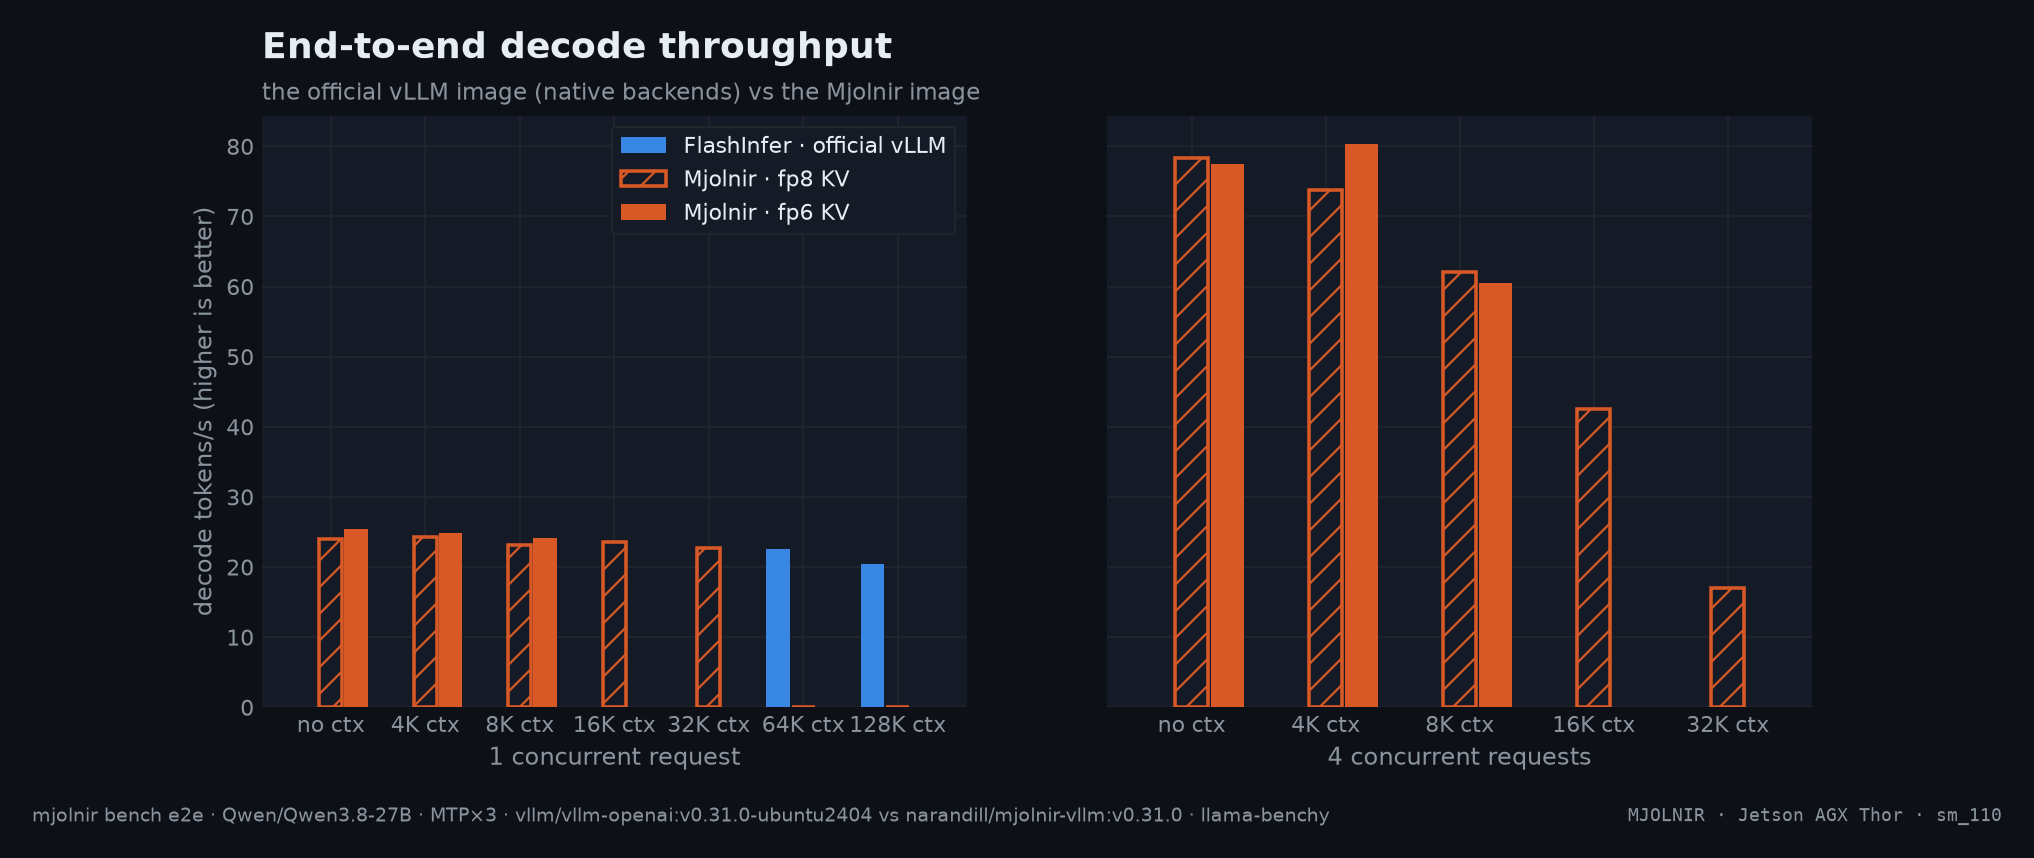
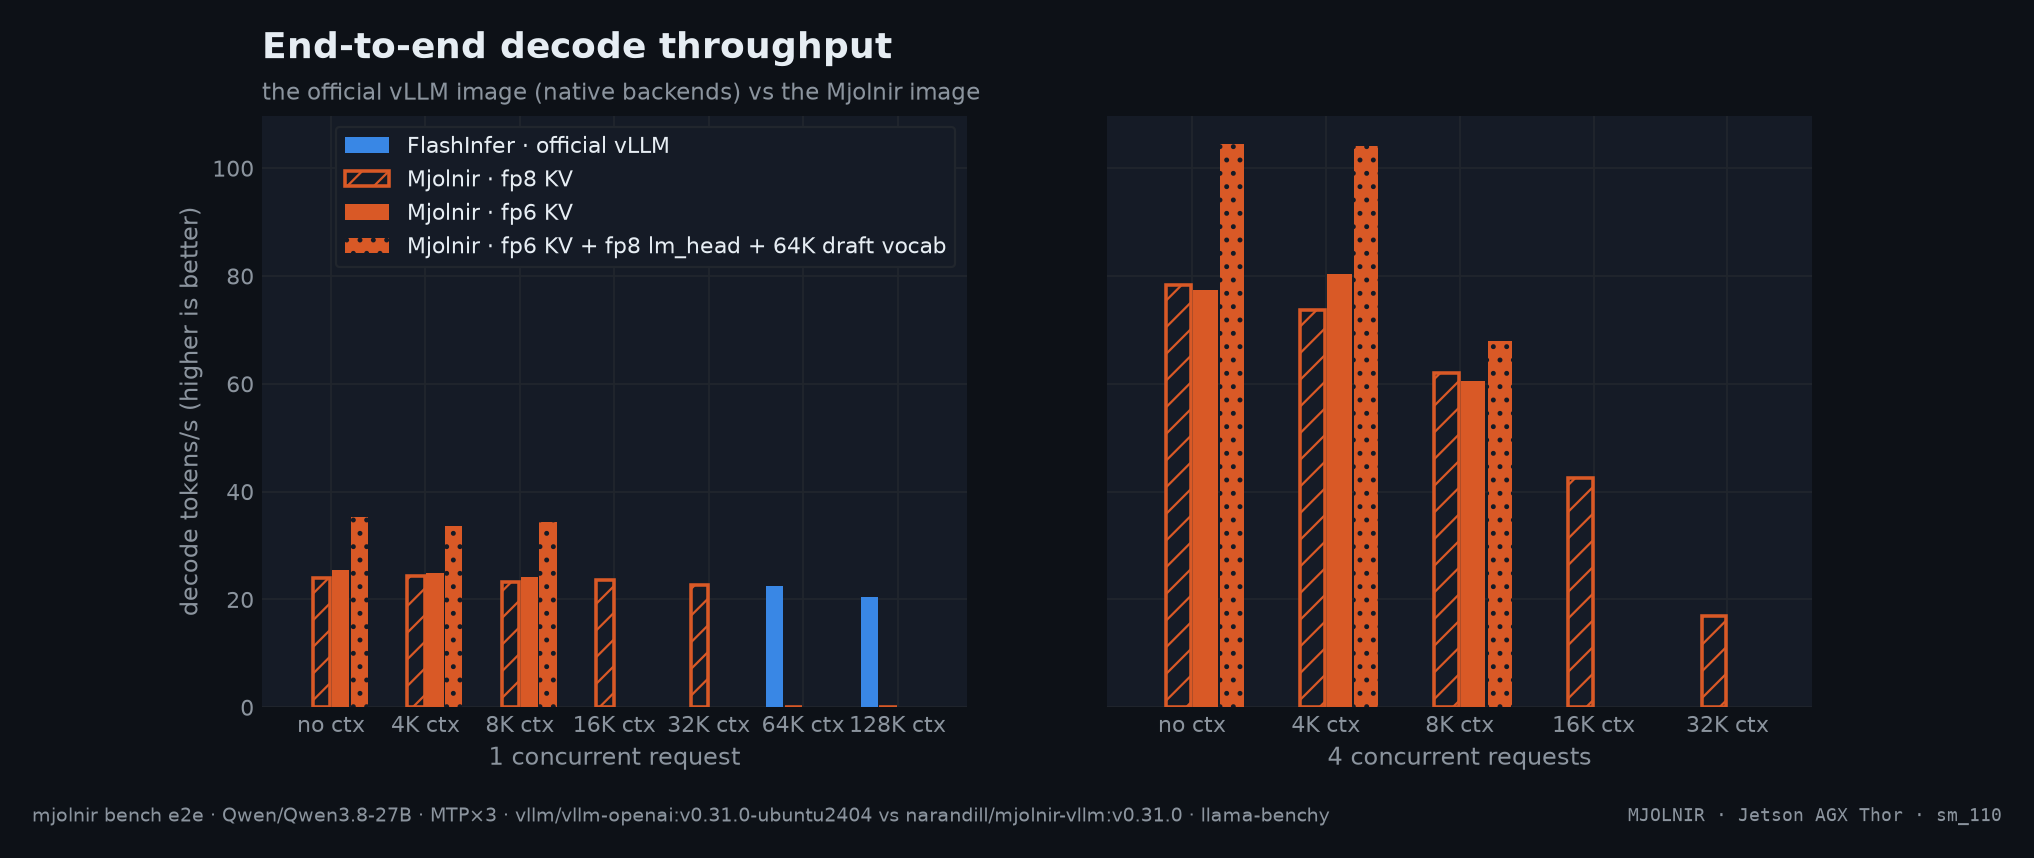
Measure NVFP4_MJOLNIR_E2M3_LMH8_VT64K everywhere: default leg of verify spec/kv-cache-size/profile, bench ab/e2e, lmh8 smoke

diff --git a/src/mjolnir-cli/mjolnir_cli/charts.py b/src/mjolnir-cli/mjolnir_cli/charts.py
@@ -637,8 +637,9 @@ E2E_SERIES = (
     ("NVFP4_FA2", "FlashAttention 2 · official vLLM"),
     ("NVFP4_MJOLNIR", "Mjolnir · fp8 KV"),
     ("NVFP4_MJOLNIR_E2M3", "Mjolnir · fp6 KV"),
+    ("NVFP4_MJOLNIR_E2M3_LMH8_VT64K", "Mjolnir · fp6 KV + fp8 lm_head + 64K draft vocab"),
 )
-MJOLNIR_E2E_CONFIGS = ("NVFP4_MJOLNIR", "NVFP4_MJOLNIR_E2M3")
+MJOLNIR_E2E_CONFIGS = ("NVFP4_MJOLNIR", "NVFP4_MJOLNIR_E2M3", "NVFP4_MJOLNIR_E2M3_LMH8_VT64K")
 
 
 def e2e_rows(layout: RepoLayout) -> dict[str, dict]:
@@ -695,9 +696,9 @@ def _e2e_chart(layout: RepoLayout, mode: Mode, metric: str, ylabel: str, ttl: st
                 vals,
                 width=w * 0.92,
                 color=mode.panel if hollow else theme.color(mode, cfg),
-                edgecolor=theme.color(mode, cfg),
+                edgecolor=theme.color(mode, cfg) if hollow or not theme.hatch(cfg) else mode.panel,
                 linewidth=1.6 if hollow else 0,
-                hatch="//" if hollow else None,
+                hatch=theme.hatch(cfg),
                 zorder=3,
                 label=lbl if ax is axes[0] else None,
             )
@@ -1059,6 +1060,8 @@ def render_infographic(layout: RepoLayout) -> Path | None:
 def _kvcache_series(r: dict) -> str:
     if r.get("side") == "official":
         return "NVFP4"
+    if r.get("config") in theme.SERIES_HATCH:
+        return r["config"]
     return "mjolnir" if str(r.get("kv_dtype", "")).startswith("fp6") else "mjolnir-fp8"
 
 
@@ -1085,9 +1088,9 @@ def chart_kvcache(data: dict, mode: Mode):
             r["kv_tokens"] / 1e6,
             height=0.6,
             color=mode.panel if hollow else c,
-            edgecolor=c,
-            linewidth=2,
-            hatch="//" if hollow else None,
+            edgecolor=c if hollow or not theme.hatch(sid) else mode.panel,
+            linewidth=2 if hollow else 0,
+            hatch=theme.hatch(sid),
             zorder=3,
         )
         ax0.text(
@@ -1154,14 +1157,19 @@ def chart_spec(data: dict, mode: Mode):
             pts = sorted((r["k"], r["decode_tps"]) for r in rows if r["config"] == cfg and r["concurrency"] == conc)
             if not pts:
                 continue
-            ax.plot([k for k, _ in pts], [v for _, v in pts], label=spec_label(cfg), **theme.line_kw(mode, cfg))
+            ax.plot(
+                [k for k, _ in pts],
+                [v for _, v in pts],
+                label=spec_label(cfg).replace(" + ", "\n+ ", 1),
+                **theme.line_kw(mode, cfg),
+            )
             kb, vb = max(pts, key=lambda p: p[1])
             ax.annotate("★", (kb, vb), textcoords="offset points", xytext=(0, 9), ha="center", color=mode.text)
         ks = sorted({r["k"] for r in rows})
         ax.set_xticks(ks)
         ax.set_xlabel(f"draft tokens · {conc} request{'s' if conc > 1 else ''} in flight")
     axes[0].set_ylabel("decode tokens/s per request")
-    theme.legend(axes[0], mode, loc="lower right")
+
     # per-position acceptance at the largest k, first concurrency
     axp = axes[-1]
     kmax = max(r["k"] for r in rows)
@@ -1179,16 +1187,20 @@ def chart_spec(data: dict, mode: Mode):
             pp,
             width=w * 0.92,
             color=mode.panel if hollow else c,
-            edgecolor=c,
+            edgecolor=c if hollow or not theme.hatch(cfg) else mode.panel,
             linewidth=1.6 if hollow else 0,
-            hatch="//" if hollow else None,
+            hatch=theme.hatch(cfg),
             zorder=3,
         )
     axp.set_xticks(range(kmax))
     axp.set_xticklabels([f"#{j + 1}" for j in range(kmax)])
-    axp.set_ylim(0, 1)
+    axp.set_ylim(0, 1.5)  # headroom for the legend
+    axp.set_yticks([0, 0.2, 0.4, 0.6, 0.8, 1.0])
     axp.set_xlabel(f"draft position · {kmax} drafts, {concs[0]} request")
     axp.set_ylabel("accepted (share of steps)")
+    # the legend sits over the short late-position bars, clear of every line
+    h, lbl = axes[0].get_legend_handles_labels()
+    theme.legend(axp, mode, handles=h, labels=lbl, loc="upper right", fontsize=8.5)
     theme.title(
         axes[0],
         mode,
@@ -1210,7 +1222,9 @@ def _accuracy_series(r: dict) -> str:
     cfg = str(r.get("config", ""))
     if "MJOLNIR" not in cfg:
         return "NVFP4" if not e2e.is_mjolnir({"image": r.get("image", "")}) else "fi-hnd"
-    return "NVFP4_MJOLNIR" if cfg == "NVFP4_MJOLNIR" else "NVFP4_MJOLNIR_E2M3"
+    if cfg in theme.SERIES_STYLE:
+        return cfg
+    return "NVFP4_MJOLNIR_E2M3"
 
 
 def _accuracy_rows(layout: RepoLayout) -> tuple[list[dict], dict | None, list[str]]:

diff --git a/src/mjolnir-cli/mjolnir_cli/verify/cli.py b/src/mjolnir-cli/mjolnir_cli/verify/cli.py
@@ -25,6 +25,9 @@ import typer
 
 from mjolnir_cli.config import DEFAULT_IMAGE, load_layout, resolve
 from mjolnir_cli.verify import results, stages
+from mjolnir_cli.verify.kvcache import DEFAULT_LEGS as KV_LEGS
+from mjolnir_cli.verify.profile import DEFAULT_LEGS as PROFILE_LEGS
+from mjolnir_cli.verify.spec import DEFAULT_LEGS as SPEC_LEGS
 from mjolnir_cli.verify.docker import Runner, ensure_image
 from mjolnir_cli.verify.report import console, show
 
@@ -529,7 +532,7 @@ def timing(
 @app.command("profile")
 def profile(
     legs: str = typer.Option(
-        "official:NVFP4,mjolnir:NVFP4_MJOLNIR_E2M3",
+        PROFILE_LEGS,
         "--legs",
         help="side:config, comma-separated (mjolnir:NVFP4 = FlashInfer on the Mjolnir image)",
     ),
@@ -560,7 +563,7 @@ def profile(
     _run(
         "profile",
         p,
-        {**p, "legs": "official:NVFP4,mjolnir:NVFP4_MJOLNIR_E2M3"},
+        {**p, "legs": PROFILE_LEGS},
         image,
         None,
         stages.DEFAULT_ITERS,
@@ -575,7 +578,7 @@ def profile(
 @app.command("spec")
 def spec(
     legs: str = typer.Option(
-        "official:NVFP4,mjolnir:NVFP4_MJOLNIR,mjolnir:NVFP4_MJOLNIR_E2M3",
+        SPEC_LEGS,
         "--legs",
         help="side:config, comma-separated; official = the stock vLLM image, mjolnir = --image",
     ),
@@ -595,7 +598,7 @@ def spec(
 ):
     """MTP per config and draft count: tokens/step, per-position acceptance, decode t/s (restarts the server per point)."""
     defaults = {
-        "legs": "official:NVFP4,mjolnir:NVFP4_MJOLNIR,mjolnir:NVFP4_MJOLNIR_E2M3",
+        "legs": SPEC_LEGS,
         "drafts": "1 2 3 4",
         "concurrency": "1 4",
         "max_tokens": 256,
@@ -631,7 +634,7 @@ def spec(
 @app.command("kv-cache-size")
 def kv_cache_size(
     legs: str = typer.Option(
-        "official:NVFP4,mjolnir:NVFP4_MJOLNIR,mjolnir:NVFP4_MJOLNIR_E2M3",
+        KV_LEGS,
         "--legs",
         help="side:config, comma-separated; official = the stock vLLM image, mjolnir = --image",
     ),
@@ -650,7 +653,7 @@ def kv_cache_size(
         "kv-cache-size",
         {"legs": legs, "model": model, "restart": restart, "timeout": timeout},
         {
-            "legs": "official:NVFP4,mjolnir:NVFP4_MJOLNIR,mjolnir:NVFP4_MJOLNIR_E2M3",
+            "legs": KV_LEGS,
             "model": None,
             "restart": restart,
             "timeout": 1800.0,
@@ -669,7 +672,7 @@ def kv_cache_size(
 @app.command()
 def vllm(
     smoke_modes: str = typer.Option(
-        "graph eager e2m3",
+        "graph eager e2m3 lmh8",
         "--smoke-modes",
         help="graph | eager | e2m3 (fp6 KV) | lmh8 (fp8 lm_head) | spec<N>; '' = none",
     ),
@@ -684,7 +687,7 @@ def vllm(
     _run(
         "vllm",
         {"smoke_modes": smoke_modes, "model": model, "tokens": tokens, "timeout": timeout},
-        {"smoke_modes": "graph eager e2m3", "model": "Qwen/Qwen3-0.6B", "tokens": 128, "timeout": 1800.0},
+        {"smoke_modes": "graph eager e2m3 lmh8", "model": "Qwen/Qwen3-0.6B", "tokens": 128, "timeout": 1800.0},
         image,
         None,
         stages.DEFAULT_ITERS,

diff --git a/src/mjolnir-cli/mjolnir_cli/cli.py b/src/mjolnir-cli/mjolnir_cli/cli.py
@@ -45,6 +45,7 @@ from mjolnir_cli.config import (
     DEFAULT_IMAGE,
     DEFAULT_QUANT,
     E2E_DEPTHS,
+    FAST_QUANT,
     STOCK_IMAGE,
     VLLM_VERSION,
     Settings,
@@ -980,7 +981,7 @@ def _ab_legs(
 @bench_app.command("ab")
 def bench_ab(
     backends: str = typer.Option(
-        f"{STOCK_IMAGE}:{BASELINE_QUANT},{DEFAULT_QUANT}",
+        f"{STOCK_IMAGE}:{BASELINE_QUANT},{DEFAULT_QUANT},{FAST_QUANT}",
         "--backends",
         help="comma-separated legs: each is "
         "'<config>' (the --model/state "
@@ -1247,7 +1248,13 @@ def bench_e2e(
         "--only",
         help="run one leg: 'mjolnir' or 'official'; the comparison pairs it with the other side's latest record",
     ),
-    dry_run: bool = typer.Option(False, "--dry-run", help="print the two serve commands, run nothing"),
+    also: str = typer.Option(
+        FAST_QUANT,
+        "--also",
+        help="more Mjolnir-image configs to measure after the pair (comma-separated; '' = none) — they join the "
+        "e2e charts; the comparison and infographic stay on --config",
+    ),
+    dry_run: bool = typer.Option(False, "--dry-run", help="print the serve commands, run nothing"),
     allow_stale_image: bool = typer.Option(
         False, "--allow-stale-image", help="benchmark a Mjolnir image older than the checkout's kernel"
     ),
@@ -1273,6 +1280,8 @@ def bench_e2e(
             typer.secho(f"--only must be 'mjolnir' or 'official', got {only!r}", fg=typer.colors.RED, err=True)
             raise typer.Exit(2)
         legs = [legs[1] if side == "mjolnir" else legs[0]]
+    if only is None or only.strip().lower() == "mjolnir":
+        legs += [(s.model, image, q.strip(), None) for q in also.split(",") if q.strip() and q.strip() != config]
     stale = dockerctl.stale_image(image) if any(leg[1] == image for leg in legs) else None
     if stale and not dry_run:
         if not allow_stale_image:

diff --git a/tests/cli/test_e2e.py b/tests/cli/test_e2e.py
@@ -76,19 +76,22 @@ def test_native_backends_on_the_mjolnir_image_never_count(tmp_path):
 
 def test_bench_e2e_only_runs_one_leg(monkeypatch):
     from mjolnir_cli import cli, dockerctl
-    from mjolnir_cli.config import DEFAULT_QUANT
+    from mjolnir_cli.config import DEFAULT_QUANT, FAST_QUANT
     from typer.testing import CliRunner
 
     served = []
     monkeypatch.setattr(dockerctl, "serve_up", lambda s, **kw: served.append((s.image, s.quant)))
     runner = CliRunner()
-    for side, want in (("mjolnir", DEFAULT_QUANT), ("official", "NVFP4")):
+    for side, want in (("mjolnir", [DEFAULT_QUANT, FAST_QUANT]), ("official", ["NVFP4"])):
         served.clear()
         r = runner.invoke(cli.app, ["bench", "e2e", "--dry-run", "--only", side])
         assert r.exit_code == 0, r.output
-        assert [q for _, q in served] == [want]
+        assert [q for _, q in served] == want
     served.clear()
     assert runner.invoke(cli.app, ["bench", "e2e", "--dry-run"]).exit_code == 0
+    assert [q for _, q in served] == ["NVFP4", DEFAULT_QUANT, FAST_QUANT]  # the pair, then --also
+    served.clear()
+    assert runner.invoke(cli.app, ["bench", "e2e", "--dry-run", "--also", ""]).exit_code == 0
     assert len(served) == 2
     assert runner.invoke(cli.app, ["bench", "e2e", "--dry-run", "--only", "fi"]).exit_code == 2
 

diff --git a/src/mjolnir-cli/mjolnir_cli/theme.py b/src/mjolnir-cli/mjolnir_cli/theme.py
@@ -85,7 +85,12 @@ SERIES_STYLE = {
     "NVFP4_MJOLNIR_E2M3": ("mjolnir", "o", True),
     "NVFP4": ("flashinfer", "D", True),
     "NVFP4_FA2": ("fa2", "^", True),
+    # the fast experiment config: Mjolnir orange, plus marker, dotted fill in bars
+    "NVFP4_MJOLNIR_E2M3_LMH8_VT64K": ("mjolnir", "P", True),
 }
+# bar fill pattern per series (identity is never color-only: hollow = fp8 KV,
+# dotted = the fp8 lm_head + draft-vocab experiment)
+SERIES_HATCH = {"NVFP4_MJOLNIR_E2M3_LMH8_VT64K": ".."}
 
 
 def color(mode: Mode, series_id: str) -> str:
@@ -99,6 +104,12 @@ def marker(series_id: str) -> str:
 
 def filled(series_id: str) -> bool:
     return SERIES_STYLE.get(series_id, ("text_dim", "o", True))[2]
+
+
+def hatch(series_id: str) -> str | None:
+    if not filled(series_id):
+        return "//"
+    return SERIES_HATCH.get(series_id)
 
 
 def line_kw(mode: Mode, series_id: str) -> dict:
@@ -173,8 +184,7 @@ def legend(ax, mode: Mode, **kw):
         facecolor=mode.panel,
         edgecolor=mode.grid,
         labelcolor=mode.text,
-        fontsize=10,
         framealpha=1.0,
-        **kw,
+        **{"fontsize": 10, **kw},
     )
     return leg

diff --git a/src/mjolnir-cli/mjolnir_cli/readme.py b/src/mjolnir-cli/mjolnir_cli/readme.py
@@ -477,7 +477,12 @@ def kvcache_label(r: dict) -> str:
     """'official · FlashInfer fp8', 'Mjolnir · fp6 e2m3', ..."""
     kv = str(r.get("kv_dtype") or "auto").replace("fp6_e2m3", "fp6 e2m3")
     if r.get("side") != "official":
-        return f"Mjolnir · {kv} KV"
+        extra = "".join(
+            f" + {name}"
+            for tag, name in (("LMH8", "fp8 lm_head"), ("VT64K", "64K draft vocab"), ("VT32K", "32K draft vocab"))
+            if tag in str(r.get("config", "")).split("_")
+        )
+        return f"Mjolnir · {kv} KV{extra}"
     be = {"flashinfer": "FlashInfer", "flash_attn": "FlashAttention"}.get(str(r.get("backend") or "").lower())
     return f"official vLLM · {be or r.get('backend') or '?'} · {kv} KV"
 
@@ -510,6 +515,7 @@ def spec_label(cfg: str, side: str | None = None) -> str:
         "NVFP4": "official vLLM · FlashInfer fp8",
         "NVFP4_MJOLNIR": "Mjolnir · fp8 KV",
         "NVFP4_MJOLNIR_E2M3": "Mjolnir · fp6 KV",
+        "NVFP4_MJOLNIR_E2M3_LMH8_VT64K": "Mjolnir · fp6 KV + fp8 lm_head + 64K draft vocab",
     }.get(cfg, cfg)
 
 

diff --git a/src/mjolnir-cli/mjolnir_cli/verify/kvcache.py b/src/mjolnir-cli/mjolnir_cli/verify/kvcache.py
@@ -20,10 +20,11 @@ import time
 from pathlib import Path
 
 from mjolnir_cli import dockerctl
-from mjolnir_cli.config import DEFAULT_IMAGE, STOCK_IMAGE, config_field, resolve
+from mjolnir_cli.config import DEFAULT_IMAGE, FAST_QUANT, STOCK_IMAGE, config_field, resolve
 
-# official image + stock backend, the Mjolnir image on fp8 KV, on fp6 KV
-DEFAULT_LEGS = "official:NVFP4,mjolnir:NVFP4_MJOLNIR,mjolnir:NVFP4_MJOLNIR_E2M3"
+# official image + stock backend, the Mjolnir image on fp8 KV, on fp6 KV, and the fast config
+# (its fp8 lm_head copy costs KV memory)
+DEFAULT_LEGS = f"official:NVFP4,mjolnir:NVFP4_MJOLNIR,mjolnir:NVFP4_MJOLNIR_E2M3,mjolnir:{FAST_QUANT}"
 
 _AVAIL = re.compile(r"Available KV cache memory:\s*([0-9.]+)\s*GiB")
 _TOKENS = re.compile(r"GPU KV cache size:\s*([0-9,]+)\s*tokens")

diff --git a/src/mjolnir-cli/mjolnir_cli/config.py b/src/mjolnir-cli/mjolnir_cli/config.py
@@ -26,6 +26,9 @@ DEFAULT_QUANT = "NVFP4_MJOLNIR_E2M3"  # --attention-backend MJOLNIR (this repo's
 # context depths every end-to-end bench (perf / ab / e2e) measures by default:
 # up to 128K (the ncu kernel stages keep their 256K top: verify ALL_LS)
 E2E_DEPTHS: tuple[int, ...] = (0, 4096, 8192, 16384, 32768, 65536, 131072)
+# the fastest Mjolnir config so far (fp8 lm_head + 64K draft vocab, opt-in via its .env):
+# measured next to the default everywhere (verify spec / kv-cache-size / profile, bench ab / accuracy)
+FAST_QUANT = "NVFP4_MJOLNIR_E2M3_LMH8_VT64K"
 BASELINE_QUANT = "NVFP4"  # FlashInfer — the fastest stock backend on Thor
 FA2_QUANT = "NVFP4_FA2"  # FlashAttention 2 — vLLM 0.31.0's sm_110 default (bf16 KV)
 SERVED_MODEL_NAME = "Qwen/Qwen3.8-27B"

diff --git a/src/mjolnir-cli/mjolnir_cli/verify/profile.py b/src/mjolnir-cli/mjolnir_cli/verify/profile.py
@@ -30,9 +30,9 @@ from collections import defaultdict
 from pathlib import Path
 
 from mjolnir_cli import dockerctl
-from mjolnir_cli.config import DEFAULT_IMAGE, STOCK_IMAGE, resolve
+from mjolnir_cli.config import DEFAULT_IMAGE, FAST_QUANT, STOCK_IMAGE, resolve
 
-DEFAULT_LEGS = "official:NVFP4,mjolnir:NVFP4_MJOLNIR_E2M3"
+DEFAULT_LEGS = f"official:NVFP4,mjolnir:NVFP4_MJOLNIR_E2M3,mjolnir:{FAST_QUANT}"
 
 CATEGORIES = (  # first match wins: GEMMs before attention (FlashInfer's NVFP4 GEMMs are "flashinfer…gemm")
     ("gemm", r"gemm|gemv|nvjet|xmma|matmul|cublas|splitK|scaled_mm|_fp8_head"),

diff --git a/src/mjolnir-cli/mjolnir_cli/verify/spec.py b/src/mjolnir-cli/mjolnir_cli/verify/spec.py
@@ -27,10 +27,10 @@ from pathlib import Path
 import yaml
 
 from mjolnir_cli import dockerctl
-from mjolnir_cli.config import DEFAULT_IMAGE, STOCK_IMAGE, resolve
+from mjolnir_cli.config import DEFAULT_IMAGE, FAST_QUANT, STOCK_IMAGE, resolve
 from mjolnir_cli.gate import server_counters, spec_delta
 
-DEFAULT_LEGS = "official:NVFP4,mjolnir:NVFP4_MJOLNIR,mjolnir:NVFP4_MJOLNIR_E2M3"
+DEFAULT_LEGS = f"official:NVFP4,mjolnir:NVFP4_MJOLNIR,mjolnir:NVFP4_MJOLNIR_E2M3,mjolnir:{FAST_QUANT}"
 DEFAULT_DRAFTS = "1 2 3 4"
 DEFAULT_CONCURRENCY = "1 4"
 DEFAULT_MAX_TOKENS = 256

diff --git a/src/mjolnir-cli/mjolnir_cli/verify/stages.py b/src/mjolnir-cli/mjolnir_cli/verify/stages.py
@@ -599,7 +599,7 @@ def smoke_summary(c: dict) -> str:
 def stage_vllm(
     ctx: Ctx,
     repo: Path,
-    smoke_modes: str = "graph eager e2m3",
+    smoke_modes: str = "graph eager e2m3 lmh8",
     model: str = "Qwen/Qwen3-0.6B",
     tokens: int = 128,
     timeout: float = 1800.0,

diff --git a/AGENTS.md b/AGENTS.md
@@ -236,6 +236,9 @@ trusted publishing — and the image (vLLM version, on push to `main`).
 - [ ] **Decode beyond attention**: the ranked experiment list with A/B
       commands is `docs/research/decode-experiments.md` (draft-step overhead,
       fp8 lm_head, VocabTrim draft head, fp8 MTP layer, draft length, long L).
+      `config.FAST_QUANT` (`NVFP4_MJOLNIR_E2M3_LMH8_VT64K`, the fastest so far) is
+      a default leg of `verify spec|kv-cache-size|profile`, `bench ab|e2e
+      (--also)|accuracy`, and `verify vllm` smoke-tests its fp8 head (`lmh8`).
       Opt-in experiment configs carry their switches in a `<config>.env`
       sidecar (`NVFP4_MJOLNIR_E2M3_LMH8`, `…_VT32K`, `…_LMH8_VT32K`, `…_LMH8_VT64K`;
       `mjolnir.lmhead`, `mjolnir calibrate --draft-vocab`).
